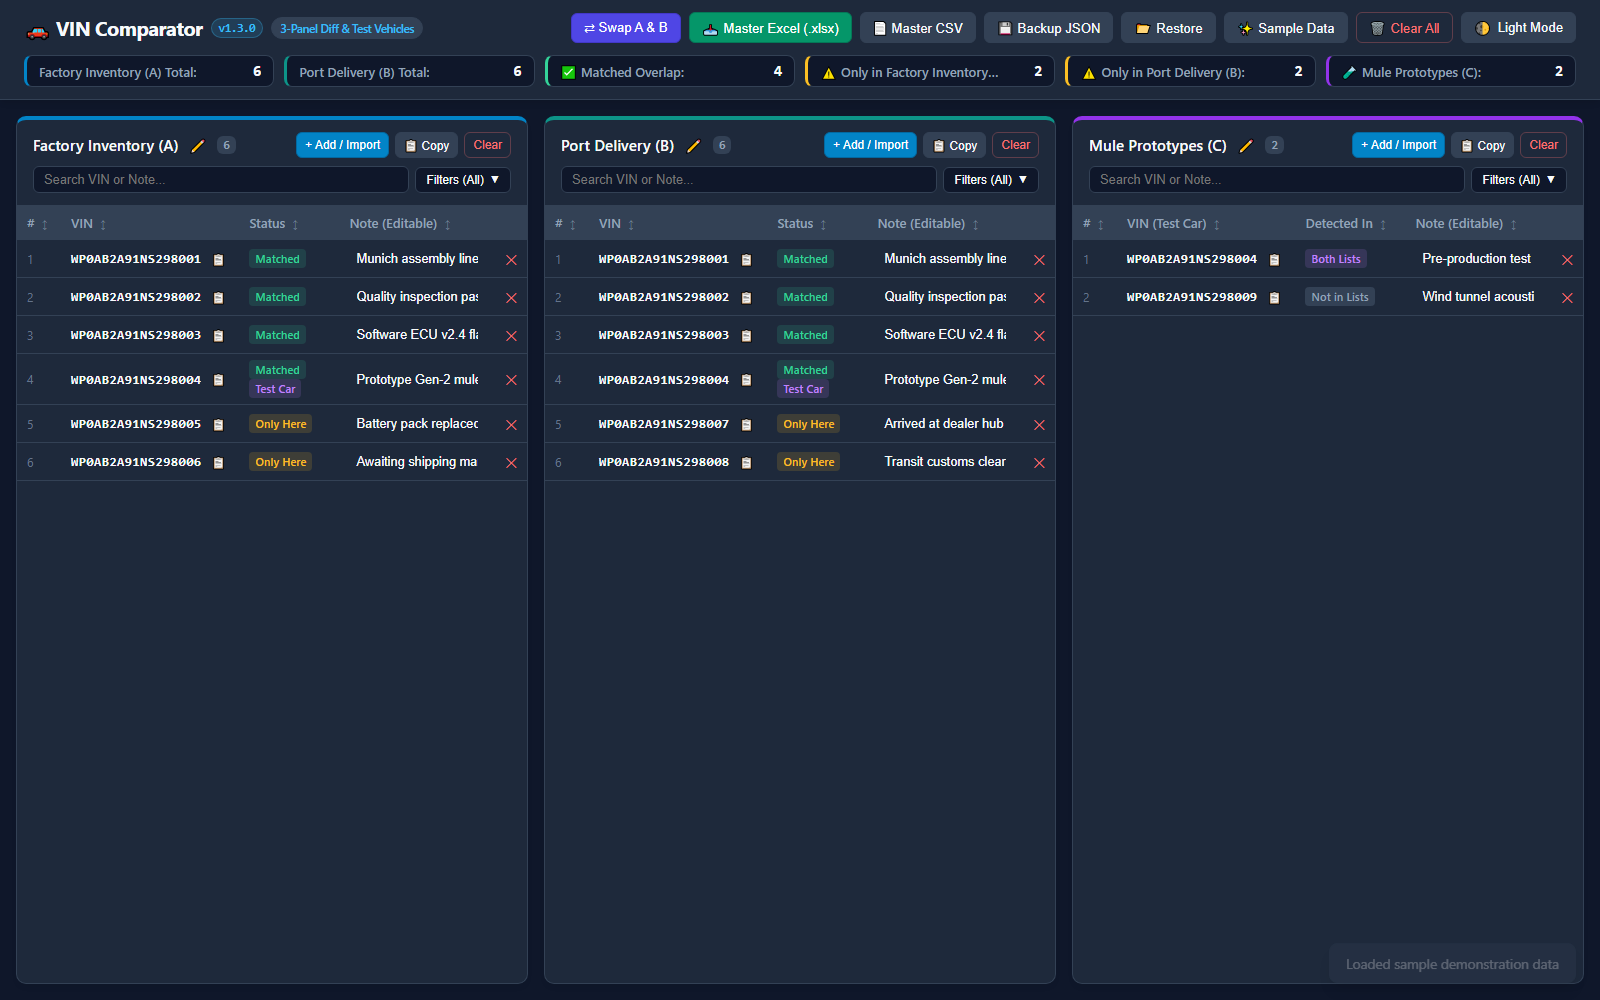
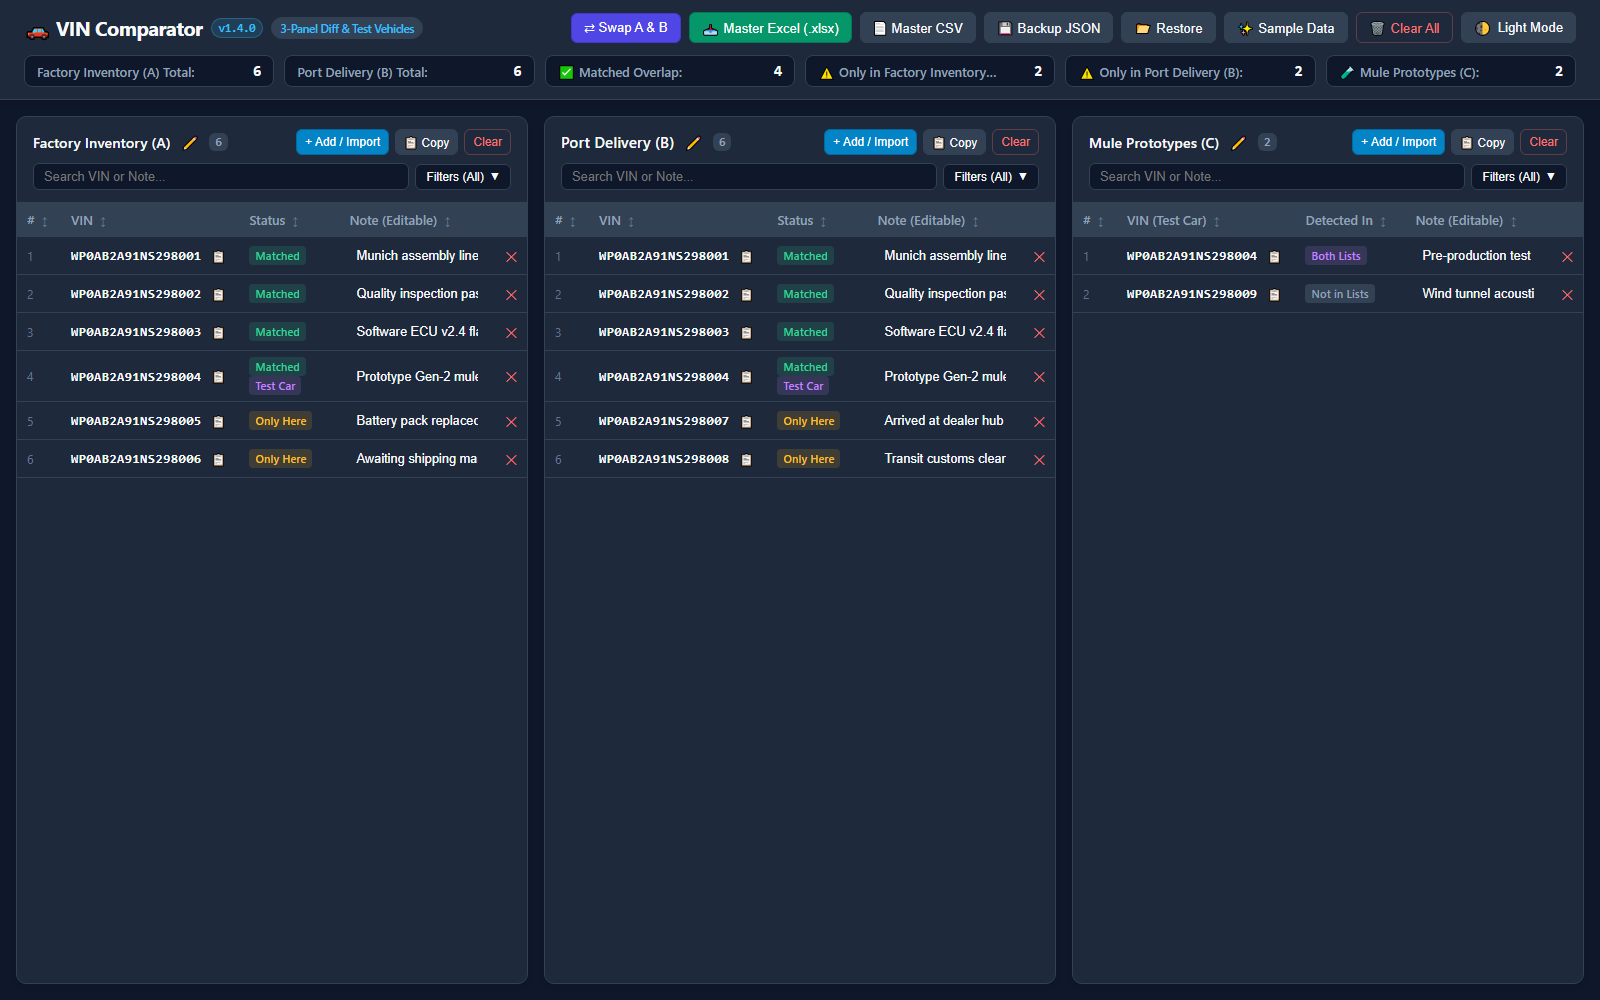
feat: v1.4.0 release with sample data toggle, dynamic title text scaling, and halo-free clean UI

diff --git a/index.html b/index.html
@@ -3,7 +3,7 @@
 <head>
   <meta charset="UTF-8">
   <meta name="viewport" content="width=device-width, initial-scale=1.0">
-  <title>VIN Tri-Panel Comparator & Test Vehicle Filter v1.3.0</title>
+  <title>VIN Tri-Panel Comparator & Test Vehicle Filter v1.4.0</title>
   <!-- Optional SheetJS for XLSX support with fallback -->
   <script src="https://cdn.jsdelivr.net/npm/xlsx@0.18.5/dist/xlsx.full.min.js"></script>
   <style>
@@ -350,22 +350,34 @@
       gap: 8px;
     }
 
-    #panel-a { border-top: 4px solid var(--panel-a-border); }
-    #panel-b { border-top: 4px solid var(--panel-b-border); }
-    #panel-c { border-top: 4px solid var(--panel-c-border); }
-
     .panel-title-row {
       display: flex;
       justify-content: space-between;
       align-items: center;
+      gap: 8px;
+      min-width: 0;
     }
 
     .panel-title {
       font-weight: 600;
-      font-size: 0.95rem;
+      font-size: clamp(0.78rem, 1.3vw, 0.95rem);
       display: flex;
       align-items: center;
       gap: 6px;
+      min-width: 0;
+      flex: 1 1 auto;
+      overflow: hidden;
+    }
+
+    .title-text {
+      cursor: pointer;
+      border-bottom: 1px dashed transparent;
+      transition: border-color 0.15s ease, font-size 0.15s ease;
+      white-space: nowrap;
+      overflow: hidden;
+      text-overflow: ellipsis;
+      display: inline-block;
+      max-width: 100%;
     }
 
     .panel-count {
@@ -375,6 +387,8 @@
       background: var(--bg-tertiary);
       color: var(--text-secondary);
       font-family: var(--font-mono);
+      white-space: nowrap;
+      flex-shrink: 0;
     }
 
     .panel-toolbar {
@@ -684,7 +698,7 @@
     <div class="header-top">
       <div class="brand-title">
         <span>🚗 VIN Comparator</span>
-        <span class="version-badge">v1.3.0</span>
+        <span class="version-badge">v1.4.0</span>
         <span class="brand-badge">3-Panel Diff & Test Vehicles</span>
       </div>
       <div class="header-actions">
@@ -704,7 +718,7 @@
           📂 Restore
         </button>
         <input type="file" id="restore-file-input" accept=".json" style="display:none" onchange="restoreWorkspaceJSON(event)">
-        <button class="btn" onclick="loadDemoData()" title="Load realistic sample VIN data for demonstration">
+        <button id="sample-data-btn" class="btn" onclick="toggleSampleData()" title="Toggle realistic sample VIN data for demonstration">
           ✨ Sample Data
         </button>
         <button class="btn btn-danger" onclick="confirmClearAll()">
@@ -718,27 +732,27 @@
 
     <!-- Live Metrics Summary Bar -->
     <div id="metrics-summary">
-      <div class="metric-pill" style="border-left: 3px solid var(--panel-a-border);">
+      <div class="metric-pill">
         <span id="metric-label-a" class="metric-label">List A Total:</span>
         <span id="metric-a" class="metric-value">0</span>
       </div>
-      <div class="metric-pill" style="border-left: 3px solid var(--panel-b-border);">
+      <div class="metric-pill">
         <span id="metric-label-b" class="metric-label">List B Total:</span>
         <span id="metric-b" class="metric-value">0</span>
       </div>
-      <div class="metric-pill" style="border-left: 3px solid var(--accent-green);">
+      <div class="metric-pill">
         <span class="metric-label">✅ Matched Overlap:</span>
         <span id="metric-matched" class="metric-value">0</span>
       </div>
-      <div class="metric-pill" style="border-left: 3px solid var(--accent-amber);">
+      <div class="metric-pill">
         <span id="metric-label-only-a" class="metric-label">⚠ Only in List A:</span>
         <span id="metric-only-a" class="metric-value">0</span>
       </div>
-      <div class="metric-pill" style="border-left: 3px solid var(--accent-amber);">
+      <div class="metric-pill">
         <span id="metric-label-only-b" class="metric-label">⚠ Only in List B:</span>
         <span id="metric-only-b" class="metric-value">0</span>
       </div>
-      <div class="metric-pill" style="border-left: 3px solid var(--panel-c-border);">
+      <div class="metric-pill">
         <span id="metric-label-c" class="metric-label">🧪 Test Vehicles:</span>
         <span id="metric-c" class="metric-value">0</span>
       </div>
@@ -1144,6 +1158,48 @@
       }, 300);
     }
 
+    let isSampleDataActive = false;
+    let userWorkspaceBackup = null;
+
+    function toggleSampleData() {
+      const btn = document.getElementById('sample-data-btn');
+      if (!isSampleDataActive) {
+        userWorkspaceBackup = {
+          listA: JSON.parse(JSON.stringify(state.listA)),
+          listB: JSON.parse(JSON.stringify(state.listB)),
+          listC: JSON.parse(JSON.stringify(state.listC)),
+          listNames: { ...state.listNames },
+          sortState: JSON.parse(JSON.stringify(state.sortState))
+        };
+        loadDemoData();
+        isSampleDataActive = true;
+        if (btn) {
+          btn.classList.add('btn-primary');
+          btn.innerHTML = '✨ Hide Sample';
+          btn.title = 'Click to restore your entered data';
+        }
+        showToast('Sample data active — click again to restore your data');
+      } else {
+        if (userWorkspaceBackup) {
+          state.listA = userWorkspaceBackup.listA;
+          state.listB = userWorkspaceBackup.listB;
+          state.listC = userWorkspaceBackup.listC;
+          state.listNames = userWorkspaceBackup.listNames;
+          state.sortState = userWorkspaceBackup.sortState;
+          userWorkspaceBackup = null;
+        }
+        isSampleDataActive = false;
+        if (btn) {
+          btn.classList.remove('btn-primary');
+          btn.innerHTML = '✨ Sample Data';
+          btn.title = 'Toggle realistic sample VIN data for demonstration';
+        }
+        updateListTitles();
+        recalculateAndRender();
+        showToast('Restored your entered data');
+      }
+    }
+
     function loadDemoData() {
       state.listNames = {
         listA: 'Factory Inventory (A)',
@@ -1172,7 +1228,6 @@
       ];
       updateListTitles();
       recalculateAndRender();
-      showToast('Loaded sample demonstration data');
     }
 
     function loadState() {
@@ -1222,14 +1277,36 @@
       scheduleSave();
     }
 
+    function adjustTitleFontSize(el, text) {
+      if (!el) return;
+      const len = (text || '').length;
+      if (len > 32) {
+        el.style.fontSize = '0.76rem';
+      } else if (len > 24) {
+        el.style.fontSize = '0.82rem';
+      } else if (len > 18) {
+        el.style.fontSize = '0.88rem';
+      } else {
+        el.style.fontSize = '0.95rem';
+      }
+    }
+
     function updateListTitles() {
       const nameA = state.listNames.listA || DEFAULT_LIST_NAMES.listA;
       const nameB = state.listNames.listB || DEFAULT_LIST_NAMES.listB;
       const nameC = state.listNames.listC || DEFAULT_LIST_NAMES.listC;
 
-      document.getElementById('title-text-a').textContent = nameA;
-      document.getElementById('title-text-b').textContent = nameB;
-      document.getElementById('title-text-c').textContent = nameC;
+      const titleElA = document.getElementById('title-text-a');
+      const titleElB = document.getElementById('title-text-b');
+      const titleElC = document.getElementById('title-text-c');
+
+      titleElA.textContent = nameA;
+      titleElB.textContent = nameB;
+      titleElC.textContent = nameC;
+
+      adjustTitleFontSize(titleElA, nameA);
+      adjustTitleFontSize(titleElB, nameB);
+      adjustTitleFontSize(titleElC, nameC);
 
       document.getElementById('metric-label-a').textContent = nameA + ' Total:';
       document.getElementById('metric-label-b').textContent = nameB + ' Total:';
@@ -1630,6 +1707,16 @@
         state[currentModalTarget] = records;
       } else {
         state[currentModalTarget] = [...state[currentModalTarget], ...records];
+      }
+
+      if (isSampleDataActive) {
+        isSampleDataActive = false;
+        userWorkspaceBackup = null;
+        const btn = document.getElementById('sample-data-btn');
+        if (btn) {
+          btn.classList.remove('btn-primary');
+          btn.innerHTML = '✨ Sample Data';
+        }
       }
 
       closeImportModal();

diff --git a/tests/app-integrity.test.js b/tests/app-integrity.test.js
@@ -25,7 +25,7 @@ test('index.html exists and contains necessary panels, UI markers, and features'
   assert.match(html, /listNames/);
 
   // Version in title
-  assert.match(html, /v1\.3\.0/i);
+  assert.match(html, /v1\.4\.0/i);
 
   // Column sorting feature & persistence
   assert.match(html, /toggleSort/);
@@ -46,4 +46,14 @@ test('index.html exists and contains necessary panels, UI markers, and features'
 
   // Dynamic filter dropdown options & header count badge update
   assert.match(html, /updateFilterDropdownOptions/);
+
+  // Non-destructive Sample Data toggle
+  assert.match(html, /toggleSampleData/);
+  assert.match(html, /isSampleDataActive/);
+
+  // Dynamic title font size to prevent multi-line wrapping
+  assert.match(html, /adjustTitleFontSize/);
+
+  // No colored halo border-top on panels
+  assert.doesNotMatch(html, /#panel-a\s*\{\s*border-top:\s*4px/);
 });

diff --git a/README.md b/README.md
@@ -1,4 +1,4 @@
-# 🚗 VIN Tri-Panel Comparator & Test Vehicle Filter `v1.3.0`
+# 🚗 VIN Tri-Panel Comparator & Test Vehicle Filter `v1.4.0`
 
 [![Live Demo](https://img.shields.io/badge/Live%20Demo-GitHub%20Pages-2ea44f?logo=github&style=flat-square)](https://cj-1981.github.io/vin-compare/)
 [![Deploy to GitHub Pages](https://github.com/CJ-1981/vin-compare/actions/workflows/deploy-pages.yml/badge.svg)](https://github.com/CJ-1981/vin-compare/actions/workflows/deploy-pages.yml)
@@ -18,33 +18,38 @@ A standalone, high-performance HTML/JS/CSS tool for comparing two lists of Vehic
    - **List A (Baseline):** Primary source VIN list.
    - **List B (Comparison):** Target comparison VIN list.
    - **List C (Test Vehicles):** Known test vehicles to flag and exclude from discrepancy counts.
-2. **List Renaming:**
+   - Clean, modern, distraction-free neutral borders without colored edge halos.
+2. **List Renaming with Dynamic Text Sizing:**
    - Click any panel header title or the `✏` edit button to rename `List A`, `List B`, or `List C` to custom labels (e.g., `Factory Inventory`, `Port Delivery`, `Mule Prototypes`).
+   - Dynamic font-size scaling prevents long titles from ever wrapping into multi-line rows or displacing toolbar buttons.
    - Custom names dynamically propagate across live metrics counters, import dialogs, Master Excel sheets/metrics, and CSV exports.
-3. **Multi-Select Status Filter Dropdown with Dynamic Counts:**
+3. **Non-Destructive Sample Data Toggle:**
+   - Click **`✨ Sample Data`** to inspect realistic preloaded demonstration data without losing your current workspace.
+   - Click **`✨ Hide Sample`** to immediately restore your previously entered data, custom titles, and sorting preferences.
+4. **Multi-Select Status Filter Dropdown with Dynamic Counts:**
    - Popover dropdown filter in each panel allowing independent multi-selection of statuses: `Matched`, `Matched (Test Car)`, `Only Here`, and `Test Vehicle (Ignored)`.
    - **Live Counts & Smart Availability:** Displays real-time matching counts per status (e.g. `Matched (3)`) and automatically hides statuses with 0 entries in that list.
    - **Dual Badging & Filtering:** Vehicles satisfying both conditions (found in A and B, plus listed in C) receive dual badges `[Matched] [Test Car]` and can be filtered or isolated with `Matched (Test Car)`.
    - Includes quick **"Select All"** and **"Clear"** buttons with live button labels reflecting selected count.
-4. **Interactive & Persisted Column Sorting:**
+5. **Interactive & Persisted Column Sorting:**
    - Click any column header (`#`, `VIN`, `Status`/`Detected In`, `Note`) to cycle between **Ascending (`▲`)**, **Descending (`▼`)**, and **Default Index Order**.
    - Sort state is maintained independently per panel and persists automatically across page reloads and JSON workspace backups.
-5. **Real-time Filtered Count in Column Headers:**
+6. **Real-time Filtered Count in Column Headers:**
    - Header count badges (`#count-a`, `#count-b`, `#count-c`) automatically display `visible / total` (e.g. `2 / 6`) when filters or search queries are active.
-6. **Spacious Add & Batch Import Modal Window:**
+7. **Spacious Add & Batch Import Modal Window:**
    - Large, comfortable vertical modal (`86vh` height, max 900px width) with smooth scrollbar.
    - Live counter dynamically reporting **"Lines: X | Valid VINs detected: Y"** as you type or paste.
    - 1-click **"📋 Paste Clipboard"** and **"Clear"** shortcuts.
    - Supports long vertical lists of VINs (newline, comma, semicolon, or tab-delimited with notes), plus drag-and-drop for `.xlsx`, `.xls`, `.csv`, `.txt`.
-7. **List Swap (A ⇄ B):**
+8. **List Swap (A ⇄ B):**
    - Instant 1-click swap button (`⇄ Swap A & B`) in the header toolbar to exchange contents between List A and List B with real-time recalculation.
-8. **Inline Editable Notes:**
+9. **Inline Editable Notes:**
    - Dedicated Note column for every VIN across all 3 panels.
    - Edit notes directly in the table; changes are automatically persisted.
-9. **Local Offline Persistence:**
-   - Automatic debounced synchronization to browser `localStorage`.
-   - Full workspace JSON backup & restore.
-10. **Excel & CSV Export:**
+10. **Local Offline Persistence:**
+    - Automatic debounced synchronization to browser `localStorage`.
+    - Full workspace JSON backup & restore.
+11. **Excel & CSV Export:**
     - **Master Excel (.xlsx):** Multi-sheet workbook with Summary metrics, Matched Overlap, Only in List A, Only in List B, and Test Vehicles, using your custom list names.
     - **Master CSV (.csv):** Consolidated export with all columns, statuses, and custom list names.
 
